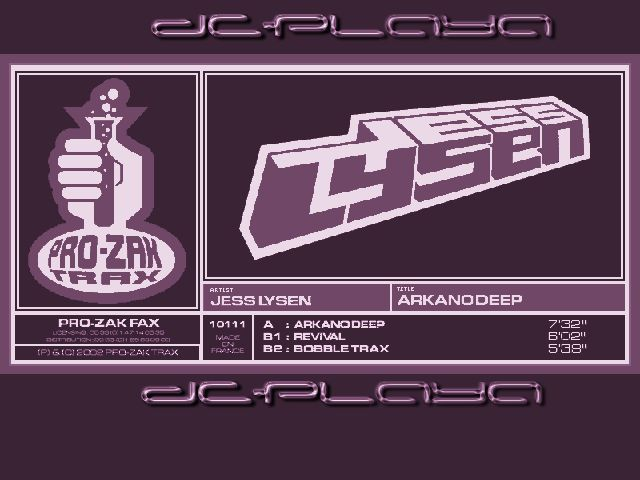
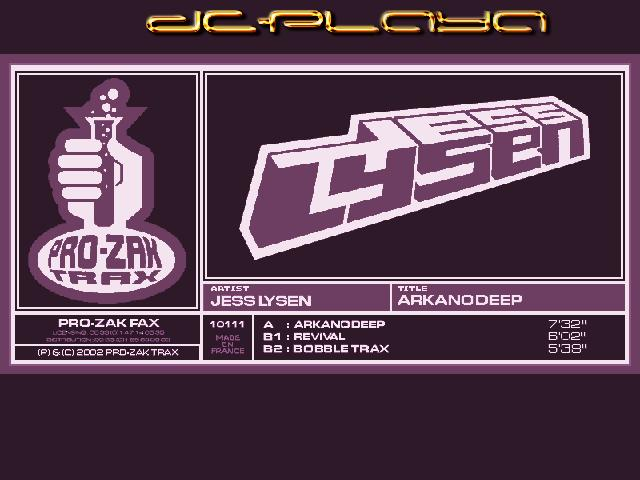
fft-vlr border debugged. More border types available.

diff --git a/src/border.c b/src/border.c
@@ -11,56 +11,42 @@
 #include "border.h"
 #include "syserror.h"
 
+static uint16 mode_colors[][3] = {
+  /* border, fill, no-link */
+  {0xFFFF, 0xF666, 0xF666}, /* */
+  {0xFFFF, 0x8DDD, 0x8DDD}, 
+  {0xFFFF, 0x8DDD, 0xE333},
+  {0xFFFF, 0x0000, 0x0000},
+  {0xFFFF, 0x0000, 0xF000},
+};
+
+#define N_BORDER (sizeof(mode_colors) / sizeof(*mode_colors))
+
 borderuv_t borderuv[4];
-texid_t bordertex[3];
+texid_t bordertex[N_BORDER];
+const unsigned int border_max = N_BORDER;
 
 static void make_blk(uint16 *texture, int w, int h, int ws, int mode)
 {
   int y = 0;
+
+  mode %= border_max;
   for (y=0; y<h; ++y) {
     int x;
     
     for (x=0; x<w; ++x) {
-      uint8 c, r, g, b;
+	  int i;
+      uint16 c;
 
-	  c = *texture;
-	  c = c>>12;
-	  c |= c<<4;
-      r = g = b = c;
-
-      if (mode == 2) {
-		if (c <= 0x30) {
-		  c = 180; 
-		  r = 0.4*255;
-		  g = 0.4*240;
-		  b = 0.4*75;
-		} else if (c <= 0x80) {
-		  c = 140;
-		  r = 255;
-		  g = 240;
-		  b = 75;
-		}
-      } else {
-		if (c <= 0x30 && !mode) {
-		  /* Not linked */
-		  c = 200; 
-		  r = g = b = 0x30;
-		} else if (c <= 0x80) {
-		  /* Fill color */
-		  c = 140;
-		  r = 230;
-		  g = 230;
-		  b = 230;
-		} else {
-		  /* Border color */
-		  c = r = g = b = 255;
-		}
-      }
-	  
-      {
-		int v = (((c)>>4)<<12) | (((r)>>4)<<8) | (((g)>>4)<<4) | ((b)>>4);
-		*texture++ = v;
-      }
+	  c = *texture & 15;
+	  if (c < 3) {
+		i = 2;
+	  }	else if (c<8) {
+		i = 1;
+	  } else {
+		i = 0;
+	  }
+	  *texture++ = mode_colors[mode][i];
     }
     texture += ws-w;
   }
@@ -71,18 +57,20 @@ int border_setup(void)
   int i, err = -1;
 	
   const char *fname = "/rd/bordertile.tga";
+  char tname[32];
 
   /* Alloc 3 textures */
   bordertex[0] = texture_create_file(fname,"4444");
-  bordertex[1] = texture_dup(bordertex[0], "bordertile2");
-  bordertex[2] = texture_dup(bordertex[0], "bordertile3");
+  for (i=1; i<N_BORDER; ++i) {
+	sprintf(tname,"bordertile%d",i);
+	bordertex[i] = texture_dup(bordertex[0],tname);
+  }
 
   err = 0;
-  for (i=0; i<3; ++i) {
+  for (i=0; i<N_BORDER; ++i) {
 	texture_t * t;
 
 	SDDEBUG("[%s] : border[%d] := %d\n", __FUNCTION__, i, bordertex[i]);
-
 	t = texture_lock(bordertex[i]);
 	if (!t) {
 	  SDERROR("[%s] : texture [#%d], lock failed\n",
@@ -91,9 +79,7 @@ int border_setup(void)
 	  continue;
 	}
 	make_blk(t->addr, t->width, t->height, 1 << t->wlog2, i);
-
 	SDDEBUG("-> %s\n",t->name);
-
 	texture_release(t);
   }
 

diff --git a/dynshell/dynshell.c b/dynshell/dynshell.c
@@ -6,7 +6,7 @@
  * @date       2002/11/09
  * @brief      Dynamic LUA shell
  *
- * @version    $Id: dynshell.c,v 1.50 2002-12-16 23:39:35 ben Exp $
+ * @version    $Id: dynshell.c,v 1.51 2002-12-18 06:30:30 ben Exp $
  */
 
 #include <stdio.h>
@@ -1708,6 +1708,7 @@ static int lua_load_background(lua_State * L)
 	  tmp.addr = img->data;
 	  stexture = &tmp;
 	  ARGB32toRGB565(tmp.addr, tmp.addr, tmp.width * tmp.height);
+	  stexture->format = texture_strtoformat("0565");
 	}
 	break;
   }
@@ -1745,18 +1746,19 @@ static int lua_load_background(lua_State * L)
   btexture->height = dh;
   btexture->wlog2  = greaterlog2(btexture->width);
   btexture->hlog2  = greaterlog2(btexture->height);
+  btexture->format = stexture->format;
   finalRatio = dh / dw;
 
-  printf("type:[%s]\n", !type ? "scale" : (type==1?"center":"tile"));
-  printf("src : [%dx%d] [%dx%d] , modulo:%d, ratio:%0.2f\n",
-		 stexture->width,stexture->height,
-		 1<<stexture->wlog2, 1<<stexture->hlog2,
-		 smodulo, orgRatio);
+/*   printf("type:[%s]\n", !type ? "scale" : (type==1?"center":"tile")); */
+/*   printf("src : [%dx%d] [%dx%d] , modulo:%d, ratio:%0.2f\n", */
+/* 		 stexture->width,stexture->height, */
+/* 		 1<<stexture->wlog2, 1<<stexture->hlog2, */
+/* 		 smodulo, orgRatio); */
 
-  printf("bkg : [%dx%d] [%dx%d], modulo:%d\n",
-		 btexture->width,btexture->height,
-		 1<<btexture->wlog2,  1<<btexture->hlog2,
-		 (1<<btexture->wlog2) - btexture->width);
+/*   printf("bkg : [%dx%d] [%dx%d], modulo:%d\n", */
+/* 		 btexture->width,btexture->height, */
+/* 		 1<<btexture->wlog2,  1<<btexture->hlog2, */
+/* 		 (1<<btexture->wlog2) - btexture->width); */
 
   /* $$$ Currently all texture are 16bit. Since blitz don't care about exact
      pixel format blitz is done with ARGB565 format. */

diff --git a/plugins/vis/fftvlr/fftvlr.c b/plugins/vis/fftvlr/fftvlr.c
@@ -8,7 +8,7 @@
  * 
  * (C) COPYRIGHT 2002 Vincent Penne & Ben(jamin) Gerard
  *
- * $Id: fftvlr.c,v 1.18 2002-11-25 16:56:09 ben Exp $
+ * $Id: fftvlr.c,v 1.19 2002-12-18 06:30:30 ben Exp $
  */
 
 #include <stdlib.h>
@@ -23,9 +23,6 @@
 #include "draw_object.h"
 
 //#define BENSTYLE
-
-/* from border.c */
-//extern int bordertex, bordertex2, bordertex3;
 
 static int db_scaling;
 static int curbordertex;
@@ -327,7 +324,7 @@ static int fftvlr_init(any_driver_t *d)
 
   db_scaling = 0;
 #ifdef BENSTYLE
-  curbordertex = 0;
+  curbordertex = 1;
 #else
   curbordertex = 2;
 #endif
@@ -367,7 +364,7 @@ static int fftvlr_process(viewport_t * vp, matrix_t projection, int elapsed_ms)
     vlr_update();
 
     fftvlr_obj.flags = 0
-	  | DRAW_BILINEAR
+	  | DRAW_NO_FILTER
 	  | DRAW_TRANSLUCENT
 	  | (bordertex[curbordertex] << DRAW_TEXTURE_BIT);
     return 0;
@@ -447,7 +444,7 @@ static int lua_setdb(lua_State * L)
 static int lua_setbordertex(lua_State * L)
 {
   if (lua_type(L,1) == LUA_TNUMBER) {
-	curbordertex = (unsigned int)lua_tonumber(L, 1) % 3u;
+	curbordertex = (unsigned int)lua_tonumber(L, 1) % border_max;
   }
   return 0;
 }
@@ -472,7 +469,7 @@ static luashell_command_description_t fftvlr_commands[] = {
   {
     "fftvlr_setbordertex", 0,            /* long and short names */
     "print [["
-      "fftvlr_setbordertex(num) : set border texture type (ranging 0..2)"
+      "fftvlr_setbordertex(num) : set border texture type."
     "]]",                                /* usage */
     SHELL_COMMAND_C, lua_setbordertex    /* function */
   },

diff --git a/include/border.h b/include/border.h
@@ -22,6 +22,7 @@ int border_setup(void);
 
 extern borderuv_t borderuv[];
 extern texid_t bordertex[];
+extern const unsigned int border_max;
 
 int border_setup(void);
 
